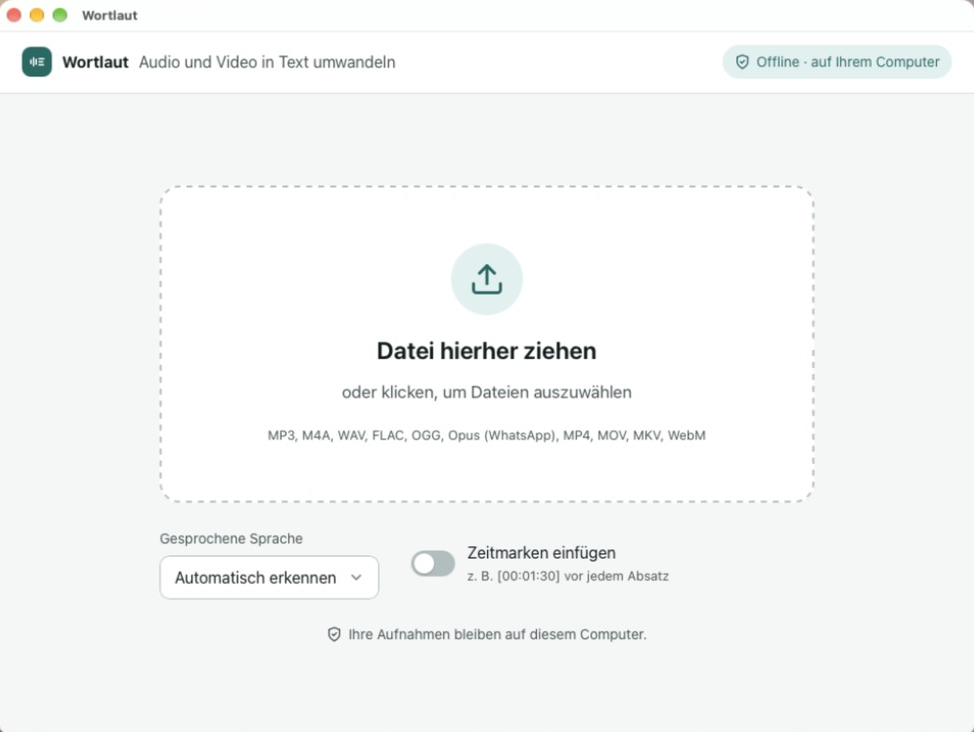
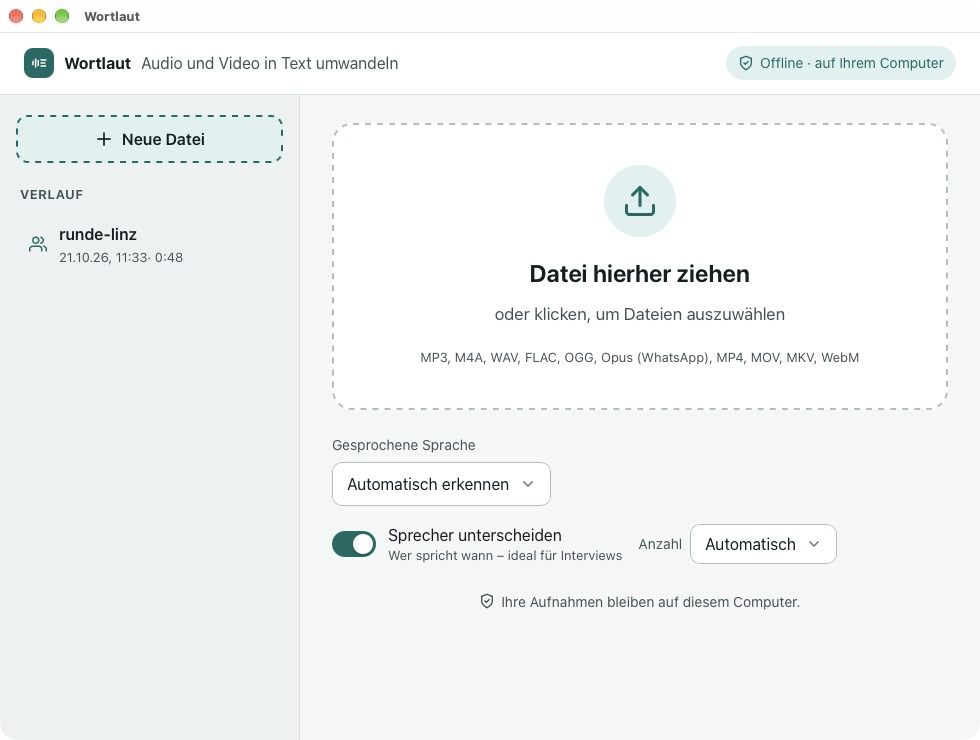
docs: README und Hinweise für 0.2, Version 0.2.0, Frontend-Tests in der CI

diff --git a/README.md b/README.md
@@ -10,7 +10,7 @@
 &nbsp;&nbsp;·&nbsp;&nbsp;
 [**⬇ Für Windows herunterladen**](https://github.com/zdkderpphb/wortlaut/releases/latest/download/Wortlaut-Windows-setup.exe)
 
-<img src="assets/screenshot-result.png" width="760" alt="Wortlaut zeigt ein fertiges Transkript mit Knöpfen zum Speichern als Word, Text oder Markdown">
+<img src="assets/screenshot-result.png" width="760" alt="Wortlaut zeigt ein fertiges Transkript mit Zusammenfassung und Knöpfen zum Speichern als Word, Text, Markdown und weiteren Formaten">
 
 </div>
 
@@ -23,6 +23,7 @@
    Das dauert je nach Internet 5 bis 15 Minuten und passiert nur ein einziges Mal.
 3. **Datei hineinziehen** – Ziehen Sie eine Aufnahme ins Fenster. Der Text erscheint,
    und Sie speichern ihn mit einem Klick als **Word**, **Text** oder **Markdown**.
+   Bei Interviews und Gesprächen schalten Sie vorher **Sprecher unterscheiden** ein.
 
 Das war's. Ab jetzt funktioniert Wortlaut auch ohne Internet.
 
@@ -37,9 +38,20 @@ Das war's. Ab jetzt funktioniert Wortlaut auch ohne Internet.
   und Videos wie MP4, MOV, MKV oder WebM.
 - **8 Sprachen:** Deutsch, Englisch, Französisch, Spanisch, Italienisch, Portugiesisch,
   Niederländisch und Hindi – auf Wunsch automatisch erkannt.
-- **Zeitmarken:** Auf Wunsch steht vor jedem Absatz, wann er gesagt wurde, z. B. `[00:12:30]`.
+- **Sprecher unterscheiden:** Wer spricht wann – für Interviews und Gruppen, beliebig viele
+  Personen. Aus „Sprecher 1“ wird mit einem Klick „Interviewerin“.
+- **Für Forschung und Analyse:** Speichern für **MAXQDA**, **ATLAS.ti** und **NVivo** – mit
+  Zeitmarken und Sprechern, sodass Text und Aufnahme dort verbunden sind.
+- **Untertitel:** Als SRT-Datei für Videos.
+- **Zusammenfassung:** Auf Knopfdruck die wichtigsten Punkte eines Gesprächs.
+- **Bequem korrigieren:** Text direkt bearbeiten, Stelle anhören (▶ neben jedem Absatz),
+  falsch erkannte Namen mit **Suchen & Ersetzen** überall auf einmal ändern.
+- **Nichts geht verloren:** Alle Transkripte bleiben im Verlauf, Änderungen werden automatisch gespeichert.
 - **Mehrere Dateien:** Einfach alle auf einmal hineinziehen – sie werden der Reihe nach umgewandelt.
-- **Text bearbeiten:** Tippfehler direkt in Wortlaut korrigieren, dann speichern.
+
+<div align="center">
+<img src="assets/screenshot-speakers.png" width="560" alt="Transkript mit farbig markierten Sprechern Moderatorin, Projektleiter und Buchhaltung, jeweils mit Zeitmarke und Abspiel-Knopf">
+</div>
 
 ## Beim ersten Öffnen
 
@@ -99,6 +111,25 @@ durcheinander reden, sollten Sie kurz gegenlesen. Wer gerade spricht, erkennt Wo
 </details>
 
 <details>
+<summary><b>Wie gut unterscheidet Wortlaut die Sprecher?</b></summary>
+
+Bei Interviews und Gesprächsrunden mit klar getrennten Wortbeiträgen sehr zuverlässig.
+Sehr kurze Einwürfe („Mhm“, „Genau“) und Stellen, an denen mehrere gleichzeitig sprechen,
+landen manchmal beim falschen Namen – ein kurzer Blick beim Gegenlesen genügt.
+Wenn Sie wissen, wie viele Personen sprechen, wählen Sie die **Anzahl** aus; das hilft.
+</details>
+
+<details>
+<summary><b>Wie übernehme ich ein Transkript in MAXQDA, ATLAS.ti oder NVivo?</b></summary>
+
+Klicken Sie auf **Weitere** und wählen Sie Ihr Programm. Die Datei enthält Zeitmarken und Sprecher.
+
+- **MAXQDA:** *Import → Transkripte (mit Zeitmarken)* und die Audiodatei zuordnen.
+- **ATLAS.ti:** Die Aufnahme als Dokument hinzufügen und die Word-Datei als Transkript damit verknüpfen.
+- **NVivo:** Bei der Audiodatei *Transkript importieren*, Spalten *Zeitspanne*, *Sprecher*, *Inhalt*.
+</details>
+
+<details>
 <summary><b>Der Download ist abgebrochen. Muss ich von vorne anfangen?</b></summary>
 
 Nein. Starten Sie Wortlaut neu und klicken Sie auf **Einrichtung fortsetzen** –
@@ -116,9 +147,9 @@ Bei einer Fehlermeldung finden Sie unter **Technische Details** einen Link
 <details>
 <summary><b>Wie entferne ich Wortlaut wieder?</b></summary>
 
-- **Mac:** Wortlaut aus dem Ordner *Programme* in den Papierkorb ziehen. Das Sprachmodell liegt unter
-  `~/Library/Application Support/io.github.zdkderpphb.wortlaut` und kann ebenfalls gelöscht werden.
-- **Windows:** *Einstellungen → Apps → Wortlaut → Deinstallieren*. Das Sprachmodell liegt unter
+- **Mac:** Wortlaut aus dem Ordner *Programme* in den Papierkorb ziehen. Sprachmodelle und Verlauf liegen unter
+  `~/Library/Application Support/io.github.zdkderpphb.wortlaut` und können ebenfalls gelöscht werden.
+- **Windows:** *Einstellungen → Apps → Wortlaut → Deinstallieren*. Sprachmodelle und Verlauf liegen unter
   `%LOCALAPPDATA%\io.github.zdkderpphb.wortlaut`.
 </details>
 
@@ -130,7 +161,8 @@ Wortlaut ist eine [Tauri 2](https://tauri.app)-App: Oberfläche in Svelte 5, Ker
 Die Spracherkennung läuft über [transcribe.cpp](https://github.com/handy-computer/transcribe.cpp)
 (Metal auf dem Mac, Vulkan oder CPU unter Windows) mit
 [Voxtral Mini 3B](https://huggingface.co/mistralai/Voxtral-Mini-3B-2507) von Mistral AI
-in der 4-Bit-Fassung (`Q4_K_M`).
+in der 4-Bit-Fassung (`Q4_K_M`). Sprecher erkennt [sherpa-onnx](https://github.com/k2-fsa/sherpa-onnx)
+mit pyannote-Segmentierung und CAM++-Stimmmerkmalen.
 
 ```bash
 npm install
@@ -144,9 +176,11 @@ und das [Vulkan SDK](https://vulkan.lunarg.com/sdk/home).
 **Tests**
 
 ```bash
+npm test                                   # Oberfläche (vitest)
 npm run build && cargo test --manifest-path src-tauri/Cargo.toml --lib
-# mit echtem Modell:
-WORTLAUT_MODEL=/pfad/zu/Voxtral-Mini-3B-2507-Q4_K_M.gguf cargo test --manifest-path src-tauri/Cargo.toml --lib
+# mit echten Modellen (Ordner aus der App):
+WORTLAUT_MODEL=<ordner>/Voxtral-Mini-3B-2507-Q4_K_M.gguf WORTLAUT_DIARIZE_MODELS=<ordner> \
+  cargo test --manifest-path src-tauri/Cargo.toml --lib
 ```
 
 **Aufbau**
@@ -156,9 +190,13 @@ WORTLAUT_MODEL=/pfad/zu/Voxtral-Mini-3B-2507-Q4_K_M.gguf cargo test --manifest-p
 | `src/lib/`                      | Oberfläche: Einrichtung, Warteliste, Ergebnis, Texte (de/en) |
 | `src-tauri/src/audio.rs`        | Audio und Video lesen, auf 16 kHz mono umrechnen          |
 | `src-tauri/src/chunker.rs`      | Aufnahmen in 20–30-s-Abschnitte teilen, in Sprechpausen   |
-| `src-tauri/src/engine.rs`       | Voxtral laden und Abschnitt für Abschnitt umwandeln       |
-| `src-tauri/src/model_manager.rs`| Modell herunterladen (fortsetzbar, mit Prüfsumme)         |
-| `src-tauri/src/export.rs`       | Speichern als Word, Text, Markdown                        |
+| `src-tauri/src/diarize.rs`      | Sprecher erkennen (sherpa-onnx)                           |
+| `src-tauri/src/pieces.rs`       | Aus Sprecherabschnitten umwandelbare Beiträge bilden      |
+| `src-tauri/src/engine.rs`       | Voxtral laden, Sprache bestimmen, Beiträge umwandeln      |
+| `src-tauri/src/summary.rs`      | Zusammenfassung mit Voxtral                               |
+| `src-tauri/src/history.rs`      | Verlauf: Transkripte als JSON speichern                   |
+| `src-tauri/src/model_manager.rs`| Modelle herunterladen (fortsetzbar, mit Prüfsumme)        |
+| `src-tauri/src/export.rs`       | Word, Text, Markdown, SRT, MAXQDA, ATLAS.ti, NVivo, JSON    |
 | `src-tauri/src/commands.rs`     | Verbindung zwischen Oberfläche und Rust                   |
 
 **Neue Version veröffentlichen:** Versionsnummer in `package.json`, `src-tauri/Cargo.toml` und

diff --git a/THIRD-PARTY-NOTICES.md b/THIRD-PARTY-NOTICES.md
@@ -8,6 +8,11 @@ Wortlaut is MIT-licensed. It ships with or downloads the following work by other
 | [transcribe.cpp](https://github.com/handy-computer/transcribe.cpp) | speech recognition runtime | MIT |
 | [ggml](https://github.com/ggml-org/ggml) (vendored in transcribe.cpp) | tensor library, Metal/Vulkan/CPU backends | MIT |
 | [miniz](https://github.com/richgel999/miniz) (vendored in transcribe.cpp) | compression | MIT |
+| [pyannote segmentation 3.0](https://huggingface.co/pyannote/segmentation-3.0), ONNX export by [sherpa-onnx](https://huggingface.co/csukuangfj/sherpa-onnx-pyannote-segmentation-3-0) | speaker detection model, downloaded on first start | MIT |
+| [3D-Speaker CAM++](https://github.com/modelscope/3D-Speaker), ONNX export by [sherpa-onnx](https://huggingface.co/csukuangfj/speaker-embedding-models) | speaker embedding model, downloaded on first start | Apache-2.0 |
+| [sherpa-onnx](https://github.com/k2-fsa/sherpa-onnx) | speaker detection runtime | Apache-2.0 |
+| [ONNX Runtime](https://github.com/microsoft/onnxruntime) (inside sherpa-onnx) | neural network runtime | MIT |
+| [whatlang](https://github.com/greyblake/whatlang-rs) | language identification of the first minute | MIT |
 | [Tauri](https://tauri.app) | desktop app framework | MIT or Apache-2.0 |
 | [Symphonia](https://github.com/pdeljanov/Symphonia) | audio/video decoding | MPL-2.0 |
 | [libopus](https://opus-codec.org) via symphonia-adapter-libopus | Opus decoding | BSD-3-Clause |
